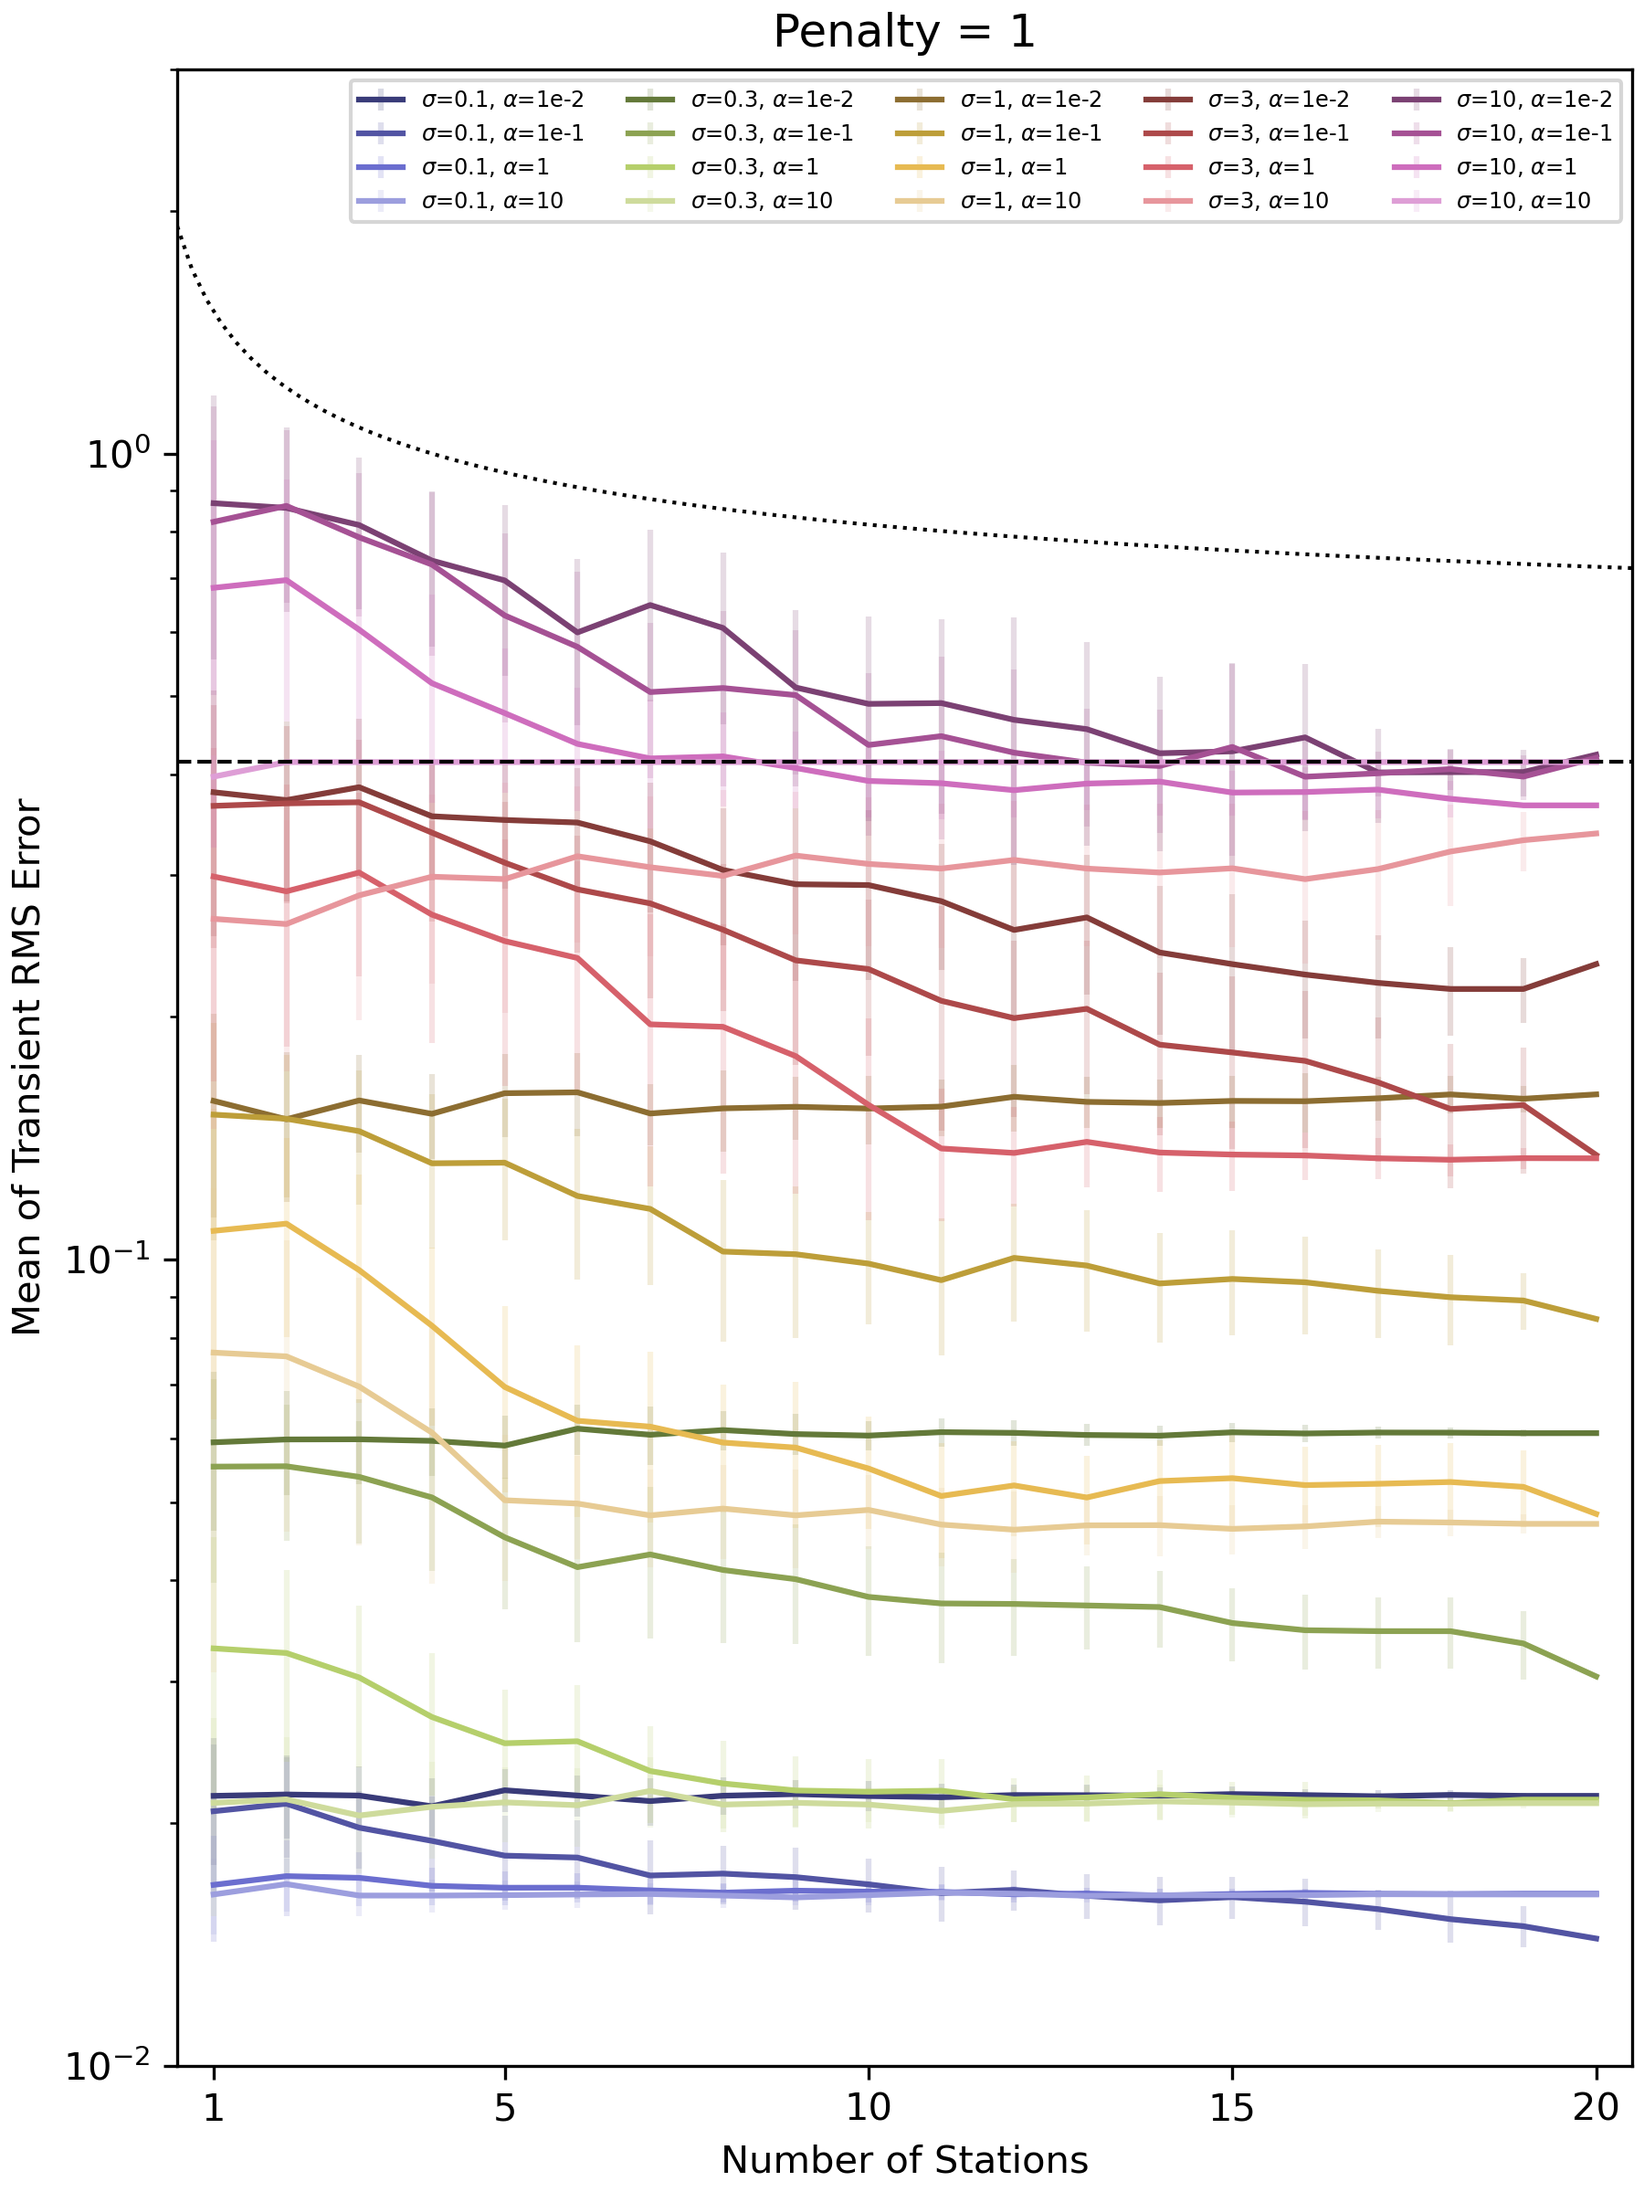
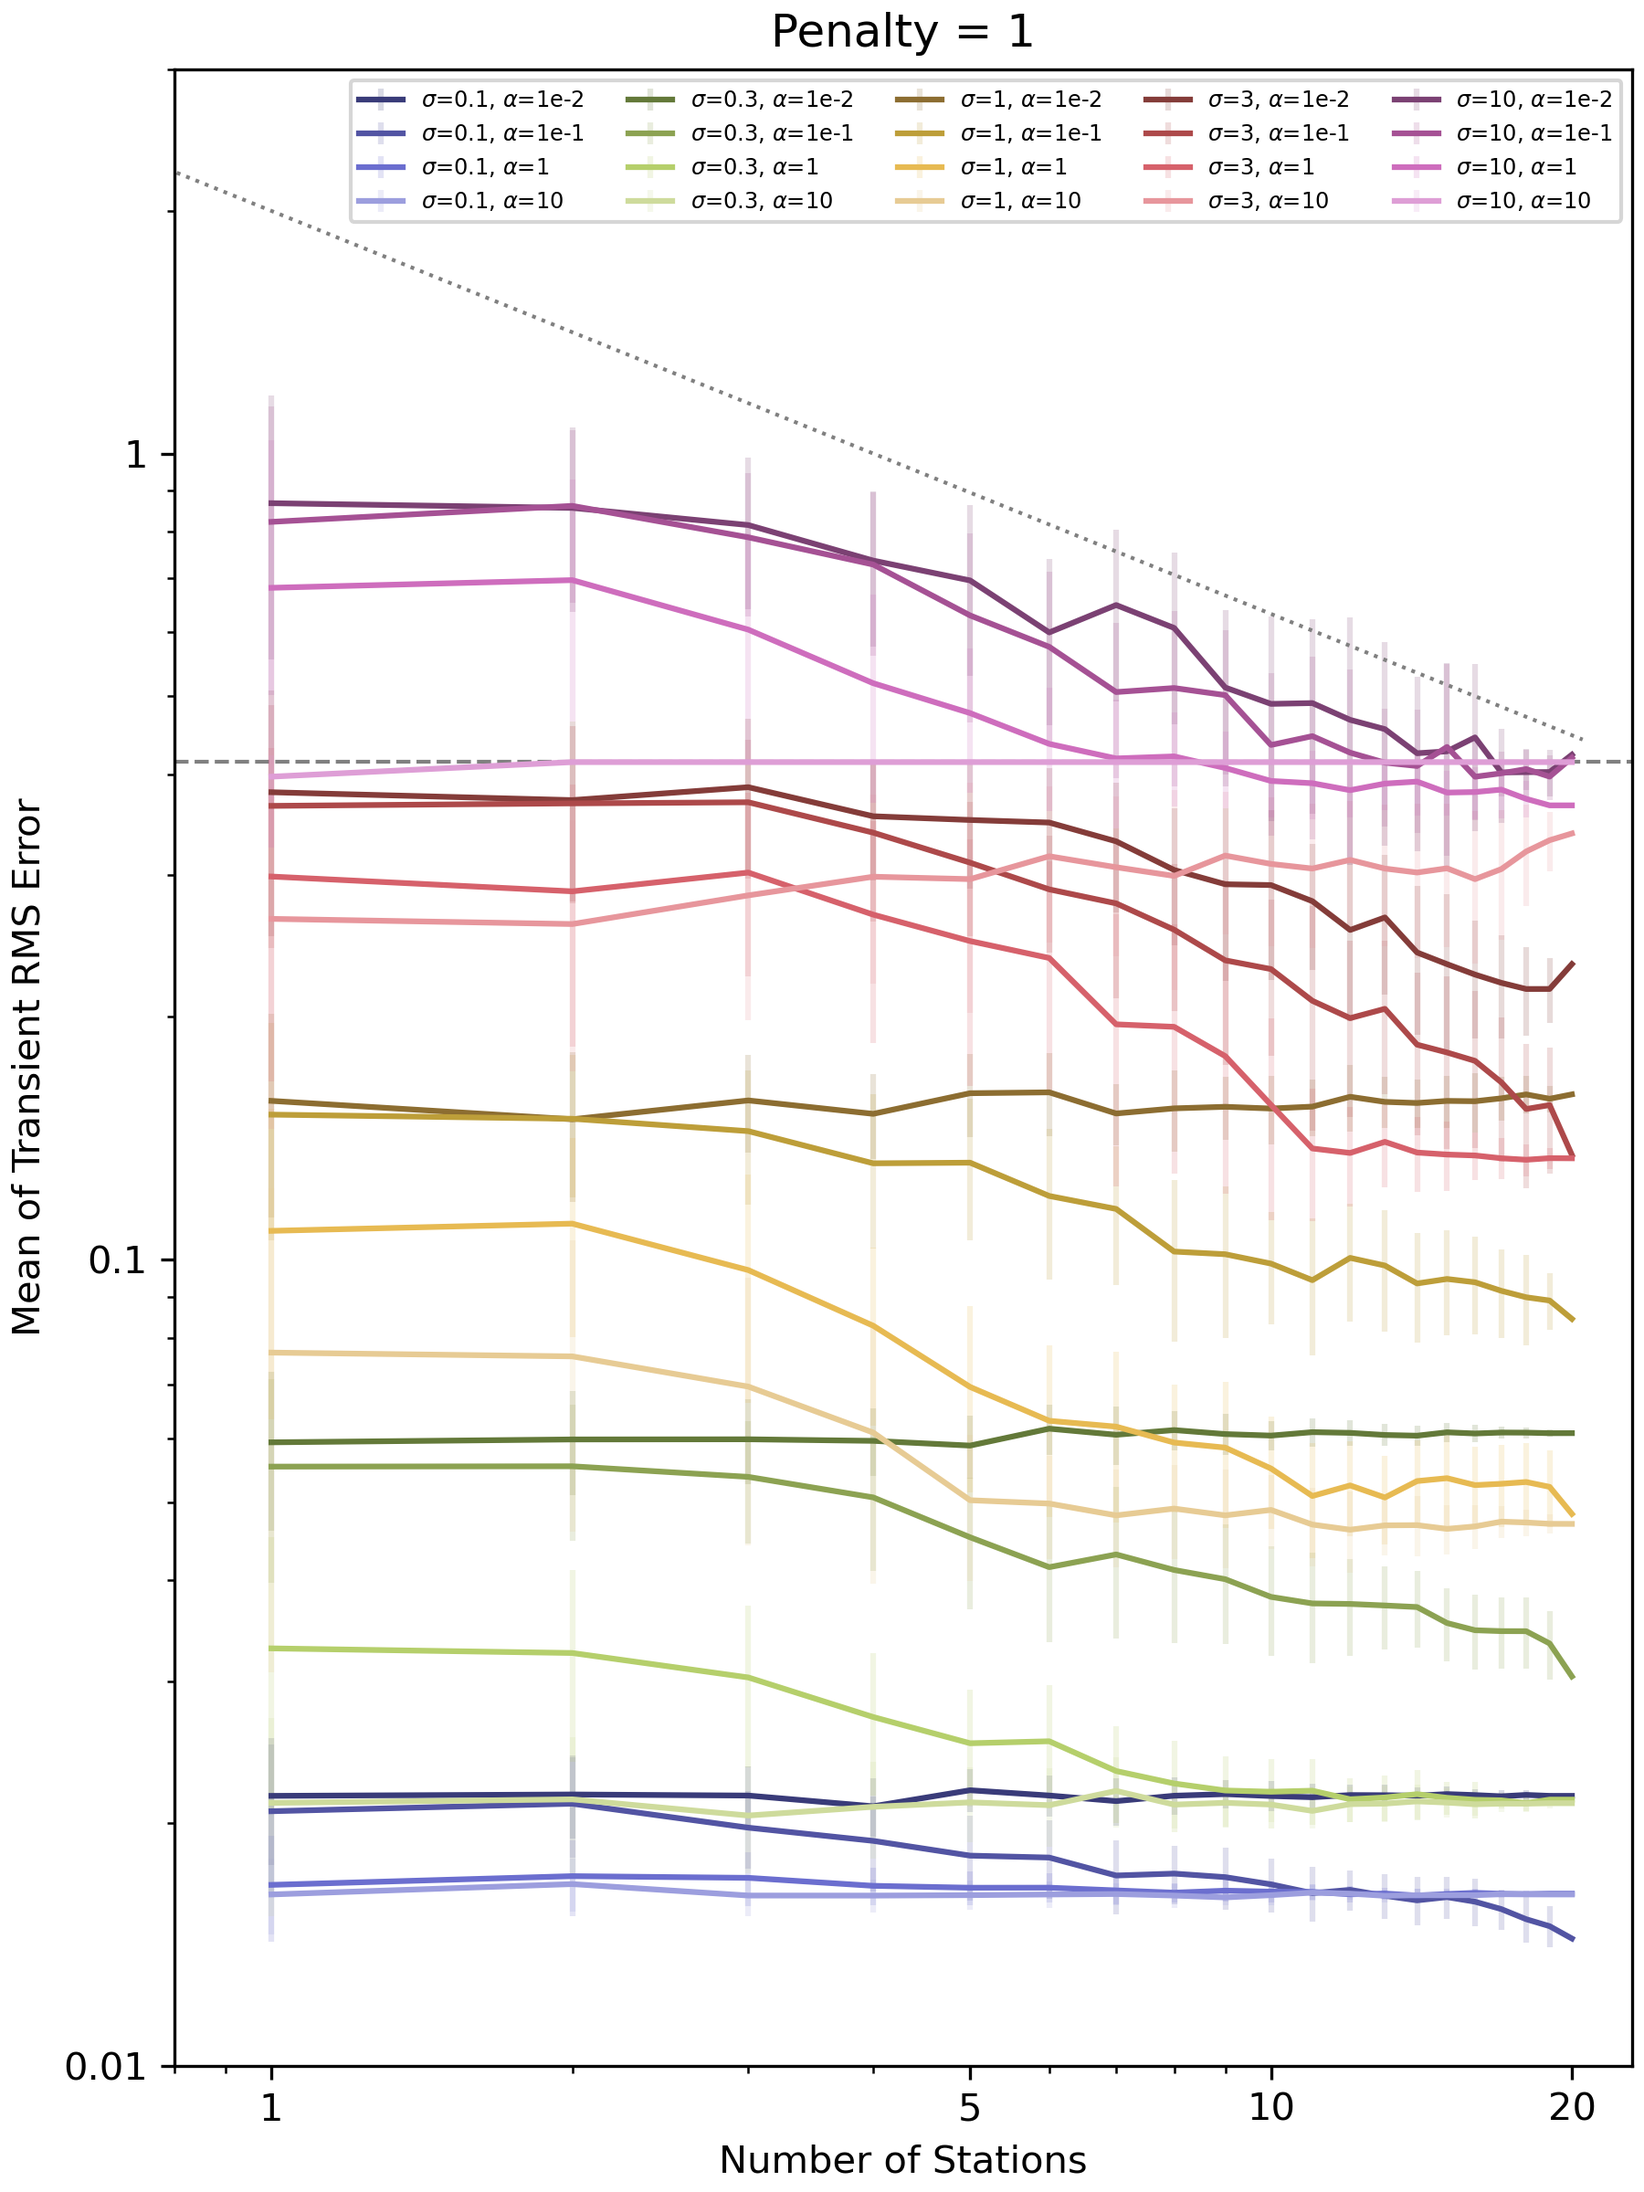
Updated tutorial 5

diff --git a/scripts/tutorial_5_low_snr.py b/scripts/tutorial_5_low_snr.py
@@ -83,6 +83,7 @@ if __name__ == "__main__":
     max_num_stations = 20
     station_names = [f"S{i:02d}" for i in range(1, max_num_stations + 1)]
     latlons = rng.uniform([-1, -1], [1, 1], (max_num_stations, 2))
+    x_range = np.arange(1, max_num_stations+1)
 
     # create timevector
     t_start_str = "2000-01-01"
@@ -159,7 +160,6 @@ if __name__ == "__main__":
 
     # loop over cases
     results = {}
-    x_range = np.arange(1, max_num_stations+1)
     all_noise_pen_rw_combos = list(product(noise_sds, penalties, rw_func_scales))
     for noise_sd, pen, rw_func_scale in tqdm(all_noise_pen_rw_combos, ascii=True,
                                              desc="Looping over noise/penalty combos"):
@@ -219,12 +219,16 @@ if __name__ == "__main__":
                 mean_sd = np.array([np.std(np.mean(rr, axis=1)) for rr in last_rmse])
                 ax.errorbar(x=x_range, y=mean_mean, yerr=mean_sd, color=col, ecolor=ecol,
                             label=f"$\\sigma$={noise_sd}, $\\alpha$={rw_func_scale}")
-        ax.plot(x_range_small, 1/np.sqrt(x_range_small) + 0.5, "k:", lw=1)
-        ax.axhline(np.sqrt(np.mean(truth**2)), color="k", linewidth=1, linestyle="--", zorder=10)
-        ax.set_xlim([0.5, max_num_stations+0.5])
-        ax.set_xticks([1, 5, 10, 15, 20])
+        ax.plot(x_range_small, 1/np.sqrt(x_range_small) * 2, c="0.5", ls=":", lw=1)
+        ax.axhline(np.sqrt(np.mean(truth**2)), color="0.5", linewidth=1, linestyle="--", zorder=-1)
+        ax.set_xscale("log")
+        ax.set_xlim([0.8, max_num_stations + 3])
+        ax.set_xticks([1, 5, 10, 20])
+        ax.set_xticklabels(["1", "5", "10", "20"])
         ax.set_yscale("log")
         ax.set_ylim([1e-2, 3])
+        ax.set_yticks([0.01, 0.1, 1])
+        ax.set_yticklabels(["0.01", "0.1", "1"])
         ax.set_xlabel("Number of Stations")
         ax.set_ylabel("Mean of Transient RMS Error")
         ax.set_title(f"Penalty = {pen}")
